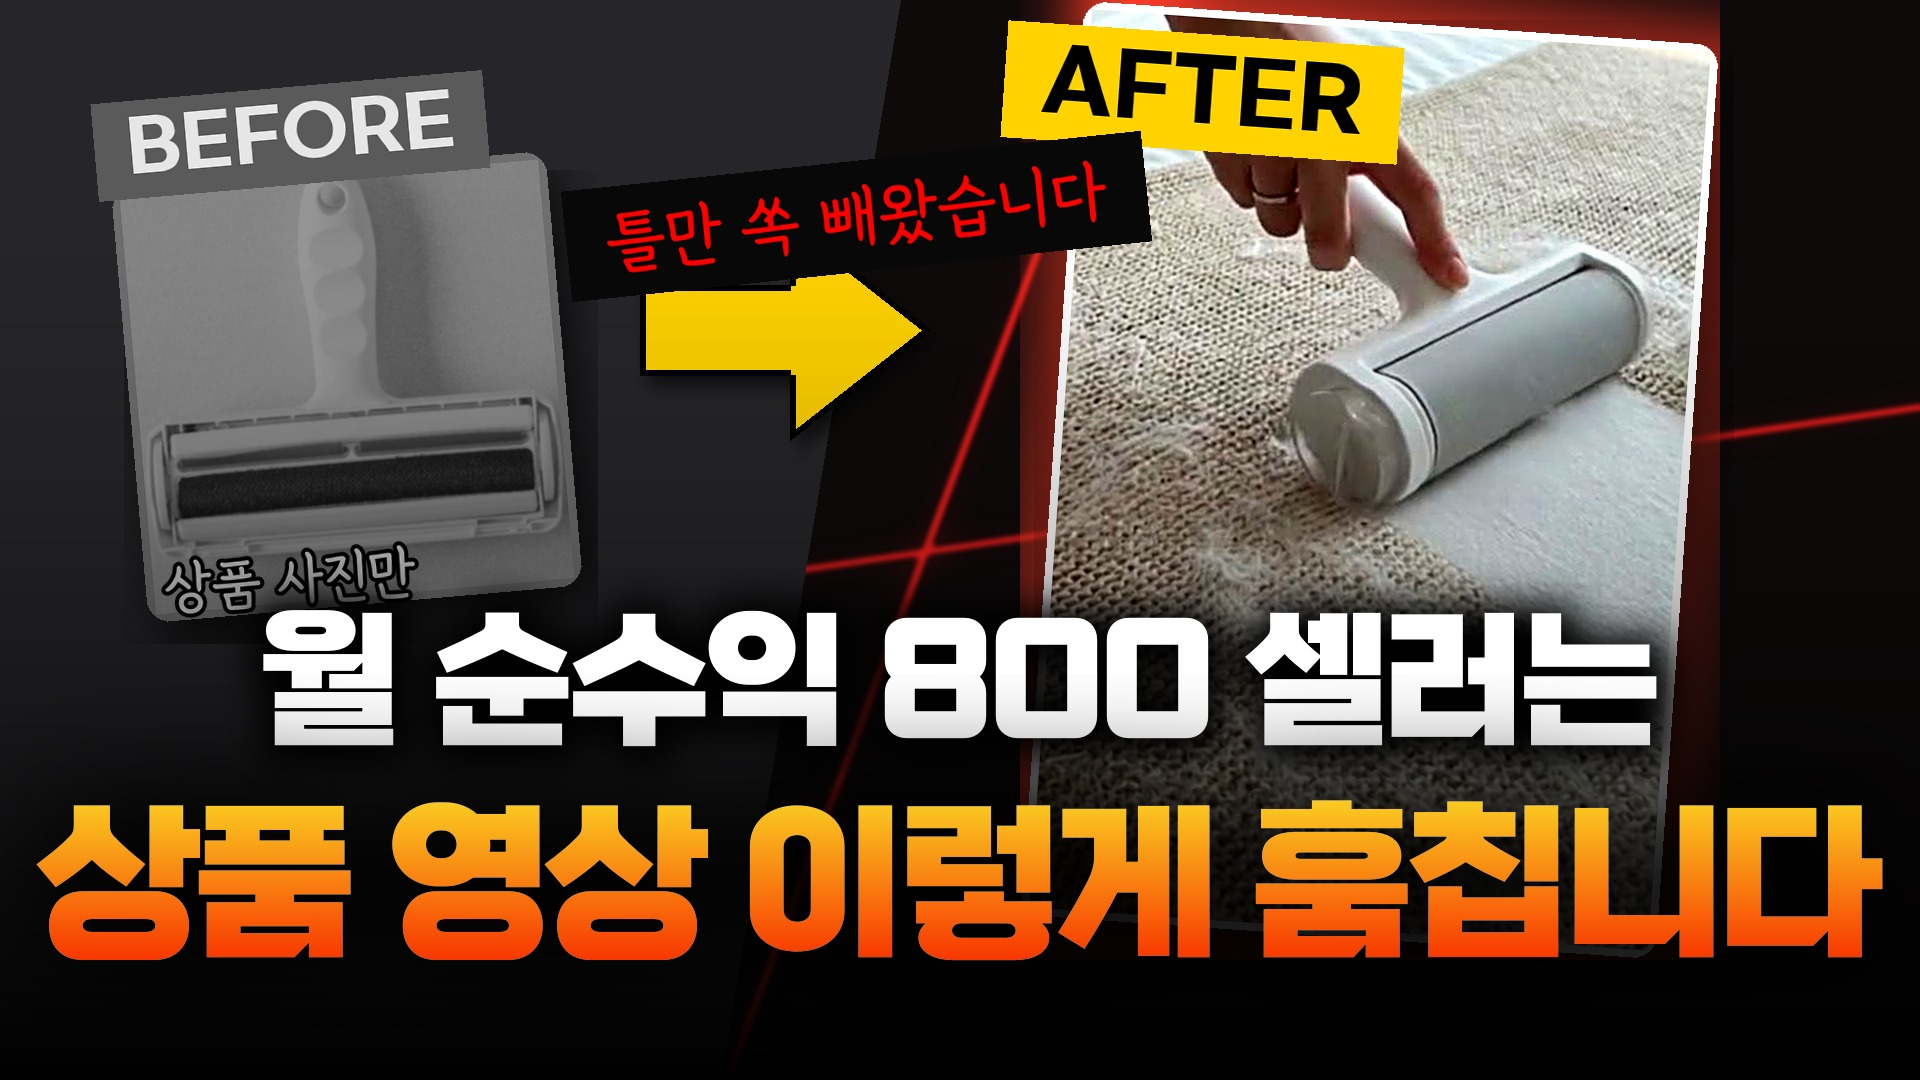
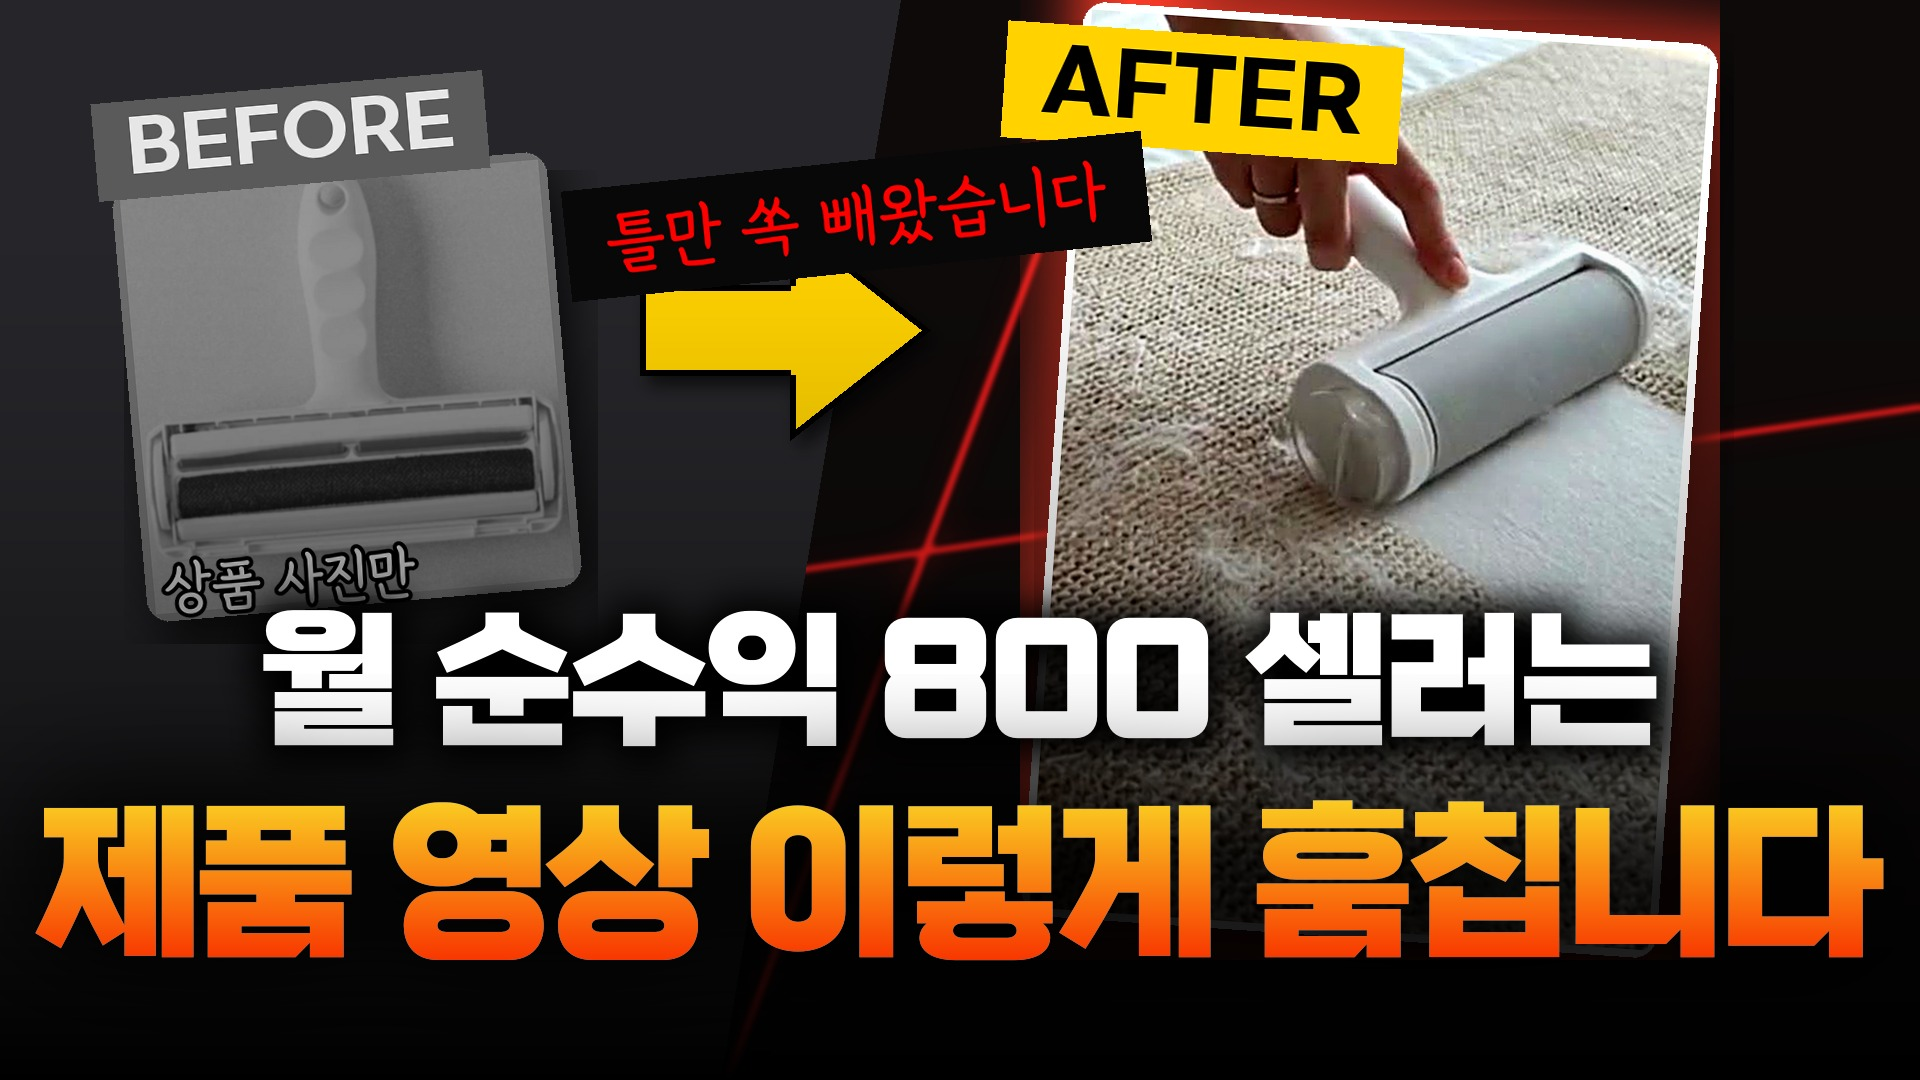
157편 보드: 제품·상세페이지 영상 키워드로 제목·썸네일 교체

diff --git a/157-thumb-title/index.html b/157-thumb-title/index.html
@@ -46,7 +46,7 @@ th{color:var(--sub);font-weight:700}
 <body>
 <div class="wrap">
   <h1>157편 썸네일·제목 보드</h1>
-  <div class="meta">잘된 영상 하나, AI로 뜯어서 내 상품 영상으로 다시 만들기 · 본편 미리보기 v2 (6:13) · 썸네일 v10 · 2026-11-26</div>
+  <div class="meta">잘된 영상 하나, AI로 뜯어서 내 상품 영상으로 다시 만들기 · 본편 미리보기 v2 (6:13) · 썸네일 v11 · 2026-11-26</div>
 
   <h2>도입부 (0:00~0:28)</h2>
   <div class="intro">
@@ -61,17 +61,17 @@ th{color:var(--sub);font-weight:700}
   <h2>썸네일 3안 × 제목 3개</h2>
 
   <section class="set">
-    <div class="set-head"><b>시안 1 · 훔칩니다</b><span>월 순수익 800 셀러는 / 상품 영상 이렇게 훔칩니다 · 구도: 채널 「상세페이지 자동완성」(5,681회)</span></div>
+    <div class="set-head"><b>시안 1 · 훔칩니다</b><span>월 순수익 800 셀러는 / 제품 영상 이렇게 훔칩니다 · 구도: 채널 「상세페이지 자동완성」(5,681회)</span></div>
     <div class="set-body">
       <div>
-        <img class="thumb" src="assets/thumb_1.jpg" alt="시안 1 썸네일: 흑백 상품 사진 BEFORE에서 노란 화살표로 컬러 롤러 장면 AFTER, 월 순수익 800 셀러는 상품 영상 이렇게 훔칩니다">
+        <img class="thumb" src="assets/thumb_1.jpg" alt="시안 1 썸네일: 흑백 상품 사진 BEFORE에서 노란 화살표로 컬러 롤러 장면 AFTER, 월 순수익 800 셀러는 제품 영상 이렇게 훔칩니다">
         <div class="label" style="margin-top:12px">유튜브 목록에서 보이는 모습 (추천 제목)</div>
-        <div class="feed"><img src="assets/thumb_1.jpg" alt=""><div><div class="ft">남들은 모르는 상품 영상 설계도, 잘된 영상 안에 다 있습니다. AI로 뜯어서 내 상품에 넣는 법 (프롬프트 무료배포)</div><div class="fc">용감한용팀장 - 셀러를 위한 AI 사용법</div></div></div>
+        <div class="feed"><img src="assets/thumb_1.jpg" alt=""><div><div class="ft">남들은 모르는 제품 영상 설계도, 잘된 영상 안에 다 있습니다. AI로 뜯어서 내 상세페이지에 넣는 법 (프롬프트 무료배포)</div><div class="fc">용감한용팀장 - 셀러를 위한 AI 사용법</div></div></div>
       </div>
       <div class="titles">
-        <div class="t"><div class="txt">잘 팔리는 상품 영상, 이제 촬영하지 마세요. 틀만 가져와서 내 상품 영상으로 다시 만드는 법 보여드림 (프롬프트 무료배포)</div></div>
-        <div class="t rec"><span class="tag rec">추천</span><div class="txt">남들은 모르는 상품 영상 설계도, 잘된 영상 안에 다 있습니다. AI로 뜯어서 내 상품에 넣는 법 (프롬프트 무료배포)</div></div>
-        <div class="t"><div class="txt">매출 나는 상품 영상은 순서부터 다릅니다. 잘된 영상 순서 그대로 내 상품 영상 만드는 법 (프롬프트 무료배포)</div></div>
+        <div class="t"><div class="txt">잘 팔리는 제품 영상, 이제 촬영하지 마세요. 틀만 가져와서 내 상세페이지 영상으로 다시 만드는 법 보여드림 (프롬프트 무료배포)</div></div>
+        <div class="t rec"><span class="tag rec">추천</span><div class="txt">남들은 모르는 제품 영상 설계도, 잘된 영상 안에 다 있습니다. AI로 뜯어서 내 상세페이지에 넣는 법 (프롬프트 무료배포)</div></div>
+        <div class="t"><div class="txt">매출 나는 상세페이지 영상은 순서부터 다릅니다. 잘된 제품 영상 순서 그대로 만드는 법 (프롬프트 무료배포)</div></div>
       </div>
     </div>
   </section>
@@ -82,28 +82,28 @@ th{color:var(--sub);font-weight:700}
       <div>
         <img class="thumb" src="assets/thumb_2.jpg" alt="시안 2 썸네일: 줄 그은 남의 상품 설명 두 줄에 빨간 마커, 잘된 영상 그대로 베꼈다가 신고 먹습니다">
         <div class="label" style="margin-top:12px">유튜브 목록에서 보이는 모습 (추천 제목)</div>
-        <div class="feed"><img src="assets/thumb_2.jpg" alt=""><div><div class="ft">잘된 상품 영상, 제발 그대로 베끼지 마세요. 내 상품에 없는 기능 들어가면 신고, 반품으로 돌아옵니다 (프롬프트 무료배포)</div><div class="fc">용감한용팀장 - 셀러를 위한 AI 사용법</div></div></div>
+        <div class="feed"><img src="assets/thumb_2.jpg" alt=""><div><div class="ft">잘된 제품 영상, 제발 그대로 베끼지 마세요. 내 상품에 없는 기능 들어가면 신고, 반품으로 돌아옵니다 (프롬프트 무료배포)</div><div class="fc">용감한용팀장 - 셀러를 위한 AI 사용법</div></div></div>
       </div>
       <div class="titles">
-        <div class="t rec"><span class="tag rec">추천</span><div class="txt">잘된 상품 영상, 제발 그대로 베끼지 마세요. 내 상품에 없는 기능 들어가면 신고, 반품으로 돌아옵니다 (프롬프트 무료배포)</div></div>
-        <div class="t"><div class="txt">AI 상품 영상, 이 한 줄 모르면 절대 올리지 마세요. 매출 대신 반품만 쌓입니다 (프롬프트 무료배포)</div></div>
-        <div class="t"><div class="txt">AI가 만든 상품 영상, 그대로 올리면 망합니다. 남의 상품 설명부터 거르는 법 보여드림 (프롬프트 무료배포)</div></div>
+        <div class="t rec"><span class="tag rec">추천</span><div class="txt">잘된 제품 영상, 제발 그대로 베끼지 마세요. 내 상품에 없는 기능 들어가면 신고, 반품으로 돌아옵니다 (프롬프트 무료배포)</div></div>
+        <div class="t"><div class="txt">AI 상세페이지 영상, 이 한 줄 모르면 절대 올리지 마세요. 매출 대신 반품만 쌓입니다 (프롬프트 무료배포)</div></div>
+        <div class="t"><div class="txt">AI가 만든 제품 영상, 그대로 올리면 망합니다. 남의 상품 설명부터 거르는 법 보여드림 (프롬프트 무료배포)</div></div>
       </div>
     </div>
   </section>
 
   <section class="set">
-    <div class="set-head"><b>시안 3 · 돈 주고 맡기세요?</b><span>아직도 상품 영상 / 돈 주고 맡기세요? · 구도: 채널 「상세페이지 GPT 이대로만 하세요」</span></div>
+    <div class="set-head"><b>시안 3 · 돈 주고 맡기세요?</b><span>아직도 상세페이지 영상 / 돈 주고 맡기세요? · 구도: 채널 「상세페이지 GPT 이대로만 하세요」</span></div>
     <div class="set-body">
       <div>
-        <img class="thumb" src="assets/thumb_3.jpg" alt="시안 3 썸네일: 흑백 상품 사진 X에서 컬러 롤러 장면 체크로 이게 되네, 아직도 상품 영상 돈 주고 맡기세요">
+        <img class="thumb" src="assets/thumb_3.jpg" alt="시안 3 썸네일: 흑백 상품 사진 X에서 컬러 롤러 장면 체크로 이게 되네, 아직도 상세페이지 영상 돈 주고 맡기세요">
         <div class="label" style="margin-top:12px">유튜브 목록에서 보이는 모습 (추천 제목)</div>
-        <div class="feed"><img src="assets/thumb_3.jpg" alt=""><div><div class="ft">상품 영상 외주 맡기지 마세요. 클로드로 사진만 넣고 직접 만드는 과정 다 보여드림 (프롬프트 무료배포)</div><div class="fc">용감한용팀장 - 셀러를 위한 AI 사용법</div></div></div>
+        <div class="feed"><img src="assets/thumb_3.jpg" alt=""><div><div class="ft">상세페이지 영상 외주 맡기지 마세요. 클로드로 사진만 넣고 직접 만드는 과정 다 보여드림 (프롬프트 무료배포)</div><div class="fc">용감한용팀장 - 셀러를 위한 AI 사용법</div></div></div>
       </div>
       <div class="titles">
-        <div class="t rec"><span class="tag rec">추천</span><div class="txt">상품 영상 외주 맡기지 마세요. 클로드로 사진만 넣고 직접 만드는 과정 다 보여드림 (프롬프트 무료배포)</div></div>
-        <div class="t"><div class="txt">상품 영상 하나 추가하면 상세페이지가 달라집니다. 외주 없이 클로드로 만드는 법 (프롬프트 무료배포)</div></div>
-        <div class="t"><div class="txt">상품 영상, 이제 돈 주고 맡길 필요 없습니다. 클로드에게 전부 맡겨봤더니 이렇게 나왔습니다 (프롬프트 무료배포)</div></div>
+        <div class="t rec"><span class="tag rec">추천</span><div class="txt">상세페이지 영상 외주 맡기지 마세요. 클로드로 사진만 넣고 직접 만드는 과정 다 보여드림 (프롬프트 무료배포)</div></div>
+        <div class="t"><div class="txt">상세페이지에 영상 하나 추가하면 달라집니다. 외주 없이 클로드로 제품 영상 만드는 법 (프롬프트 무료배포)</div></div>
+        <div class="t"><div class="txt">제품 영상, 이제 돈 주고 맡길 필요 없습니다. 클로드에게 전부 맡겨봤더니 이렇게 나왔습니다 (프롬프트 무료배포)</div></div>
       </div>
     </div>
   </section>
